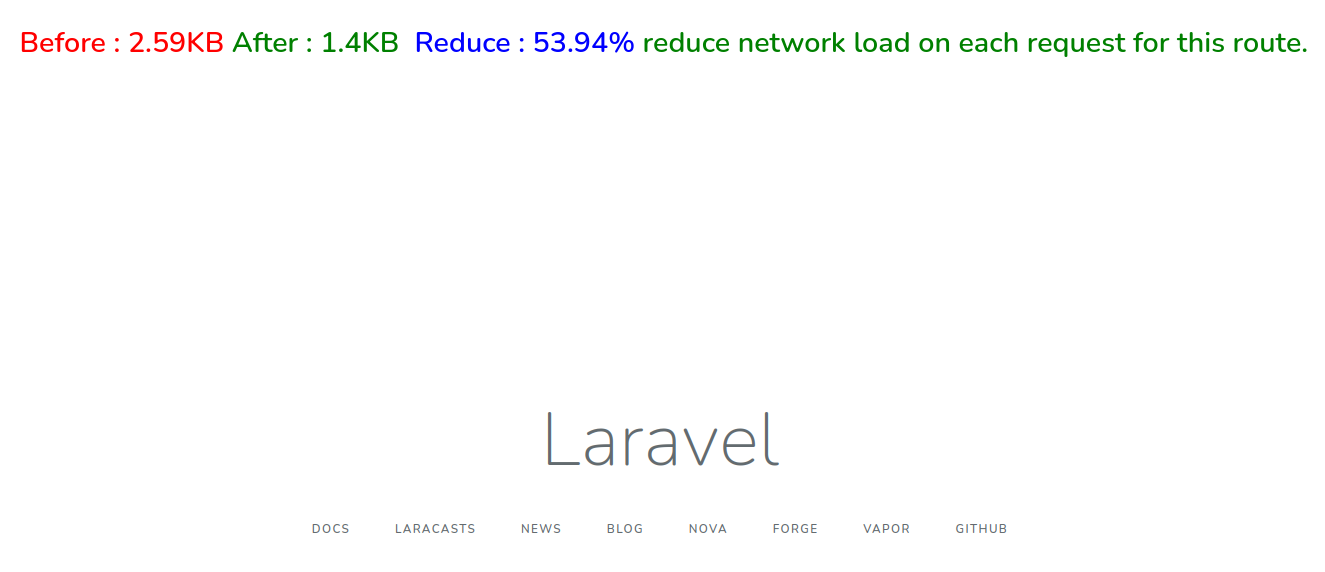
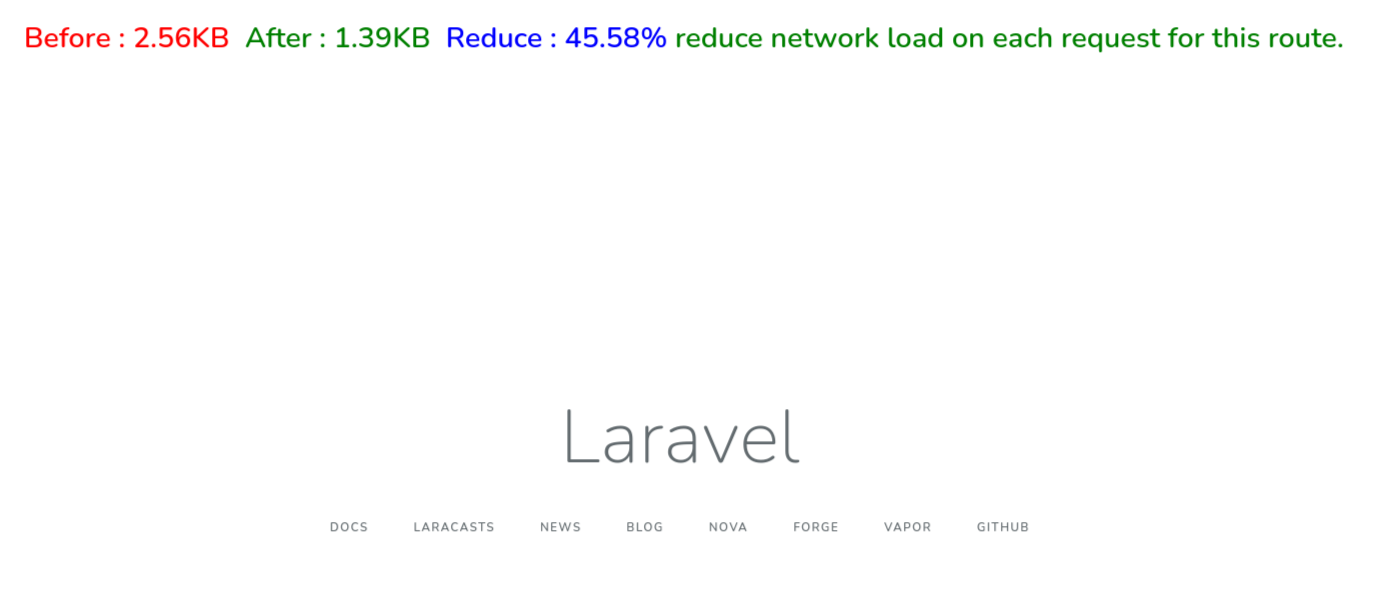
correct of the formula

diff --git a/src/Middleware/AfterMiddleware.php b/src/Middleware/AfterMiddleware.php
@@ -136,10 +136,10 @@ class AfterMiddleware
         if ($isDebug) {
             $old = LaraOutPress::formatSizeUnits($this->bufferOldSize);
             $new = LaraOutPress::formatSizeUnits($this->bufferNewSize);
-            $percent = round(
-                ($this->bufferNewSize / $this->bufferOldSize) * 100,
-                2
-            );
+            $percent = 100 - round(
+                    ($this->bufferNewSize * 100 ) / $this->bufferOldSize ,
+                    2
+                );
             $buffer
                 .= <<< EOF
 <p style=" 
